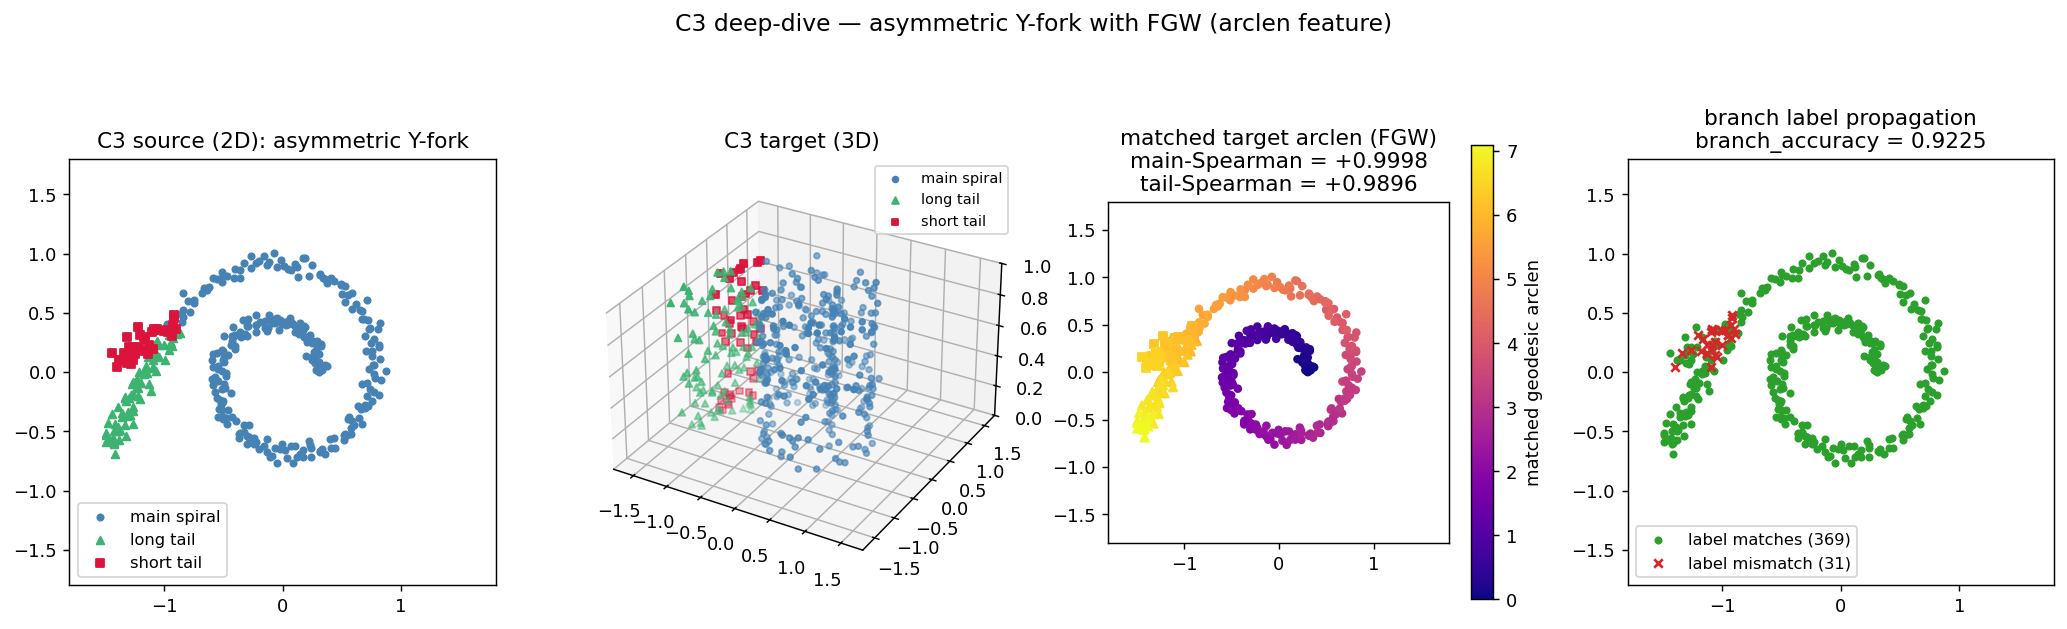
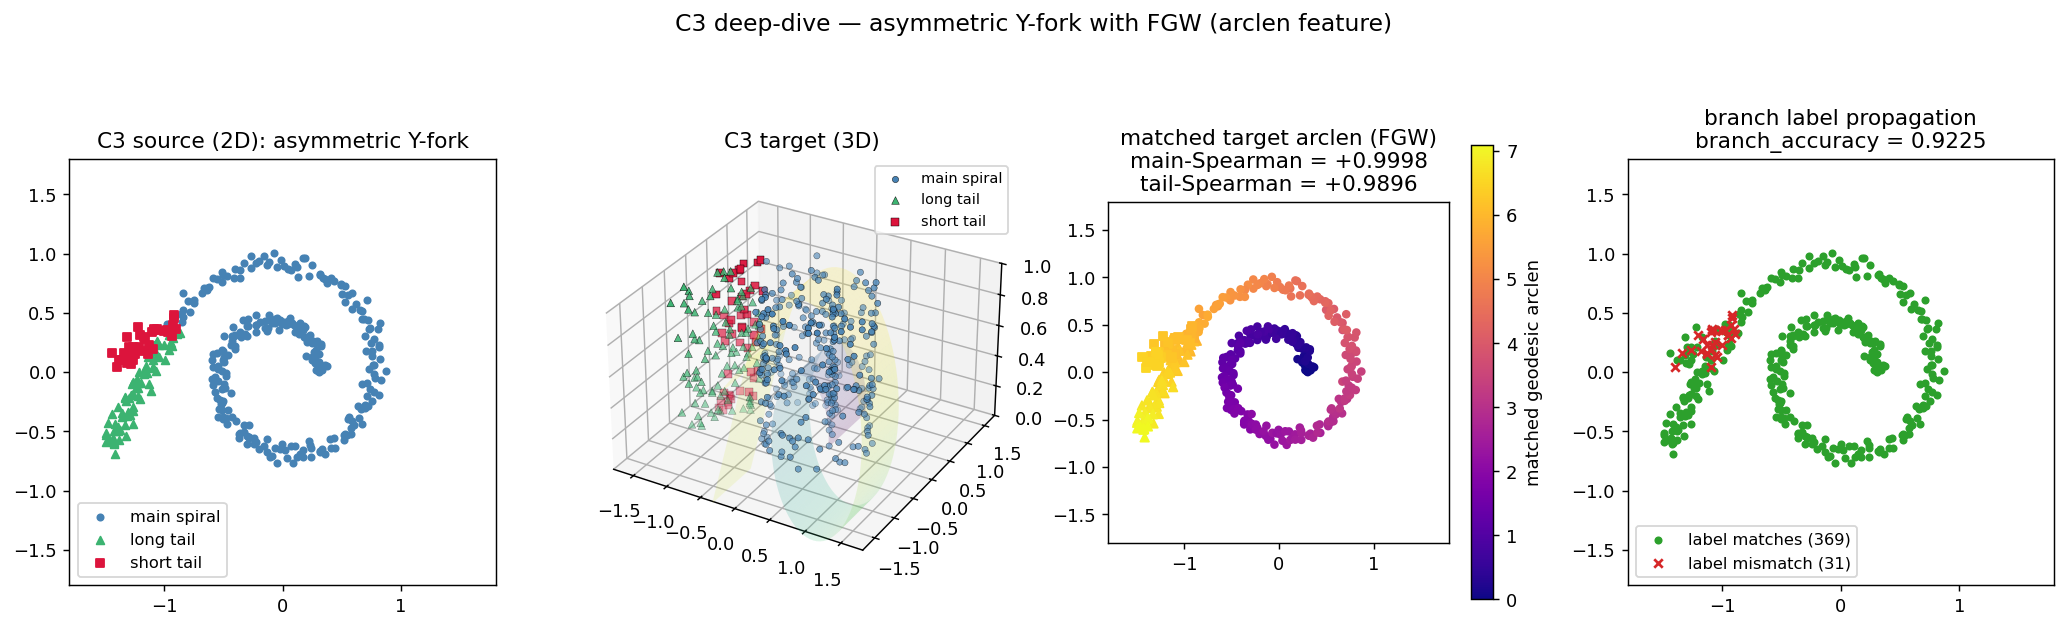
fig: bundled correspondence lines + shaded 3D surface backdrops
Two improvements:

1. Correspondence lines now come in bundles of 5 nearly-parallel lines per
   anchor region (5 anchors on each panel). For the simple spiral we pick
   5 spiral-center / arm / rim regions; for the Y-fork we use 3 backbone
   anchors plus one bundle for each tail tip. _bundle_by_anchor returns
   scalar-sorted index pairs so the 5 lines in a bundle stay parallel.

2. Added _overlay_swiss_roll_surface which draws a semi-transparent
   (alpha=0.18) clean Swiss roll parametric surface via plot_surface with
   matplotlib.colors.LightSource shading (azdeg=315, altdeg=35). For the
   Y-fork we additionally draw two _overlay_tail_strip rectangles
   extending along the two tail directions. Scatter markers gained a thin
   black edgecolor (linewidth=0.25) so the points pop out of the shaded
   backdrop instead of blending into it.

Visual result: the 3D panels now clearly read as 3D rolls, not columns of
points. The five coloured line bundles tell the reader which 2D cluster
corresponds to which 3D cluster.

Changed region(s): [[0.3096, 0.3927, 0.4335, 0.876]]

diff --git a/scripts/experiments/make_symmetry_figures.py b/scripts/experiments/make_symmetry_figures.py
@@ -69,50 +69,123 @@ def _apply_3d_view(ax) -> None:
         pass  # older matplotlib; fall back to default cube
 
 
-def _add_correspondence_lines(
+def _overlay_swiss_roll_surface(
+    ax3d,
+    r_min: float = 0.3, r_max: float = 1.0, theta_max: float = 9.0,
+    z_max: float = 1.0, alpha: float = 0.18,
+    cmap_name: str = DATA_CMAP,
+    vmax: "float | None" = None,
+) -> None:
+    """Draw a semi-transparent shaded Swiss-roll surface underneath the
+    scatter points to give the panel a strong sense of depth.
+
+    The surface is the clean parametric swiss roll (no noise) with
+    r(θ) = r_min + (r_max - r_min)·θ/theta_max, θ ∈ [0, theta_max],
+    z ∈ [0, z_max], plotted in the (x, z, y) display order used by our
+    scatter calls. Uses matplotlib.colors.LightSource shading on the
+    θ-coloured face grid.
+    """
+    from matplotlib.colors import LightSource, Normalize
+
+    theta = np.linspace(0, theta_max, 120)
+    z = np.linspace(0, z_max, 14)
+    T, Z = np.meshgrid(theta, z)
+    R = r_min + (r_max - r_min) * T / theta_max
+    Xs = R * np.cos(T)
+    Ys = R * np.sin(T)  # spiral y
+
+    cmap = plt.get_cmap(cmap_name)
+    norm = Normalize(vmin=0, vmax=(vmax if vmax is not None else theta_max))
+    face_rgb = cmap(norm(T))[..., :3]
+    ls = LightSource(azdeg=315, altdeg=35)
+    shaded = ls.shade_rgb(face_rgb, Z, blend_mode="soft", vert_exag=0.5)
+
+    ax3d.plot_surface(
+        Xs, Z, Ys,  # display order: (x_spiral, z_param, y_spiral)
+        facecolors=shaded, alpha=alpha, antialiased=True,
+        shade=False, rstride=1, cstride=1,
+        linewidth=0, edgecolor="none",
+    )
+
+
+def _overlay_tail_strip(
+    ax3d,
+    base_xy: "tuple[float, float]", direction_xy: "tuple[float, float]",
+    length: float, z_max: float = 1.0,
+    color=(0.8, 0.8, 0.2), alpha: float = 0.18,
+) -> None:
+    """Overlay a thin rectangular strip (tail extrusion in z) as a light
+    translucent panel so straight tails on the Y-fork also get a 3D feel.
+    """
+    bx, by = base_xy
+    dx, dy = direction_xy
+    s = np.linspace(0, length, 10)
+    z = np.linspace(0, z_max, 6)
+    S, Z = np.meshgrid(s, z)
+    Xs = bx + S * dx
+    Ys = by + S * dy
+    facecolor = np.broadcast_to(np.asarray(color, dtype=float), (*Xs.shape, 3))
+    ax3d.plot_surface(
+        Xs, Z, Ys, facecolors=facecolor, alpha=alpha, antialiased=True,
+        shade=False, rstride=1, cstride=1, linewidth=0, edgecolor="none",
+    )
+
+
+def _add_bundled_lines(
     fig, ax2d, ax3d,
     src_xy: np.ndarray, tgt_xyz_display: np.ndarray,
-    src_s: np.ndarray, tgt_s: np.ndarray,
-    n_lines: int = 12, cmap_name: str = DATA_CMAP,
-    alpha: float = 0.6, linewidth: float = 1.2,
+    bundles: "list[tuple[np.ndarray, np.ndarray, object]]",
+    alpha: float = 0.55, linewidth: float = 1.1,
 ) -> None:
-    """Draw `n_lines` across-panel lines connecting source points and their
-    parameter-matched target points. Coloured by the shared parameter.
+    """Draw bundles of connecting lines between matching source/target points.
 
-    tgt_xyz_display must already be in the (x, y, z) order used by the 3D
-    scatter call (i.e. for a swiss roll plotted as scatter(Y[:,0], Y[:,2],
-    Y[:,1]), pass np.stack((Y[:,0], Y[:,2], Y[:,1]), axis=1)).
+    Each `bundle` is `(src_indices, tgt_indices, colour)`. The two index
+    arrays must have the same length; lines connect them pairwise in the
+    given order (caller should usually sort both by a shared parameter so
+    lines in a bundle are nearly parallel).
+
+    tgt_xyz_display must be in the (x, y, z) order already used by the 3D
+    scatter call.
     """
     from matplotlib.patches import ConnectionPatch
     from mpl_toolkits.mplot3d import proj3d
-    import matplotlib.colors as mcolors
 
-    # Force the 3D projection matrix to be current so proj_transform is valid.
-    fig.canvas.draw()
+    fig.canvas.draw()  # finalise 3D projection matrix
 
-    s_min = float(min(src_s.min(), tgt_s.min()))
-    s_max = float(max(src_s.max(), tgt_s.max()))
-    # Anchor values evenly spanning the parameter range, avoiding the very ends
-    anchors = np.linspace(s_min, s_max, n_lines + 2)[1:-1]
-    cmap = plt.get_cmap(cmap_name)
-    norm = mcolors.Normalize(vmin=s_min, vmax=s_max)
+    for src_idx, tgt_idx, color in bundles:
+        for i, j in zip(src_idx, tgt_idx):
+            x2, y2 = float(src_xy[int(i), 0]), float(src_xy[int(i), 1])
+            xyz = tgt_xyz_display[int(j)]
+            x3p, y3p, _ = proj3d.proj_transform(
+                float(xyz[0]), float(xyz[1]), float(xyz[2]), ax3d.get_proj(),
+            )
+            con = ConnectionPatch(
+                xyA=(x2, y2), coordsA=ax2d.transData,
+                xyB=(x3p, y3p), coordsB=ax3d.transData,
+                color=color, alpha=alpha, linewidth=linewidth,
+                zorder=5,
+            )
+            con.set_clip_on(False)
+            fig.add_artist(con)
 
-    for s in anchors:
-        i = int(np.argmin(np.abs(src_s - s)))
-        j = int(np.argmin(np.abs(tgt_s - s)))
-        x2, y2 = float(src_xy[i, 0]), float(src_xy[i, 1])
-        xyz = tgt_xyz_display[j]
-        x3p, y3p, _ = proj3d.proj_transform(
-            float(xyz[0]), float(xyz[1]), float(xyz[2]), ax3d.get_proj(),
-        )
-        con = ConnectionPatch(
-            xyA=(x2, y2), coordsA=ax2d.transData,
-            xyB=(x3p, y3p), coordsB=ax3d.transData,
-            color=cmap(norm(s)), alpha=alpha, linewidth=linewidth,
-            zorder=5,
-        )
-        con.set_clip_on(False)  # allow line to cross axes boundaries
-        fig.add_artist(con)
+
+def _bundle_by_anchor(
+    src_s: np.ndarray, tgt_s: np.ndarray,
+    anchor_value: float, n_per_bundle: int,
+    src_mask: "np.ndarray | None" = None,
+    tgt_mask: "np.ndarray | None" = None,
+) -> "tuple[np.ndarray, np.ndarray]":
+    """Pick the n_per_bundle source and target points whose scalar is closest
+    to `anchor_value`. Returns (src_indices, tgt_indices) sorted by their own
+    scalar so pair-wise connections form nearly-parallel lines.
+    """
+    s_range_src = np.where(src_mask, src_s, np.inf) if src_mask is not None else src_s
+    s_range_tgt = np.where(tgt_mask, tgt_s, np.inf) if tgt_mask is not None else tgt_s
+    src_idx = np.argsort(np.abs(s_range_src - anchor_value))[:n_per_bundle]
+    tgt_idx = np.argsort(np.abs(s_range_tgt - anchor_value))[:n_per_bundle]
+    src_idx = src_idx[np.argsort(src_s[src_idx])]
+    tgt_idx = tgt_idx[np.argsort(tgt_s[tgt_idx])]
+    return src_idx, tgt_idx
 
 
 def _get_rho(x: np.ndarray, y: np.ndarray) -> float:
@@ -158,9 +231,11 @@ def make_datasets_figure() -> Path:
     # (0, 1) C1 / C2 target — 3D Swiss roll
     ax_c12_tgt = fig.add_subplot(gs[0, 1], projection="3d")
     Y1_display = np.stack((Y1[:, 0], Y1[:, 2], Y1[:, 1]), axis=1)
+    _overlay_swiss_roll_surface(ax_c12_tgt, vmax=9)
     sc = ax_c12_tgt.scatter(Y1_display[:, 0], Y1_display[:, 1],
-                              Y1_display[:, 2], c=b1, cmap=DATA_CMAP, s=12,
-                              vmin=0, vmax=9)
+                              Y1_display[:, 2], c=b1, cmap=DATA_CMAP, s=14,
+                              vmin=0, vmax=9, edgecolors="black",
+                              linewidths=0.25, depthshade=True)
     ax_c12_tgt.set_title("C1 / C2 target — simple Swiss roll (3D)",
                           fontsize=TITLE_SIZE)
     ax_c12_tgt.set_xlim(-XY_LIM, XY_LIM); ax_c12_tgt.set_ylim(-XY_LIM, XY_LIM)
@@ -197,21 +272,32 @@ def make_datasets_figure() -> Path:
     ax_c3_src.set_aspect("equal")
     ax_c3_src.legend(loc="lower left", fontsize=9)
 
-    # (1, 1) C3 target — 3D Y-fork Swiss roll
+    # (1, 1) C3 target — 3D Y-fork Swiss roll, with shaded backdrop surfaces
     ax_c3_tgt = fig.add_subplot(gs[1, 1], projection="3d")
     Y3_display = np.stack((Y3[:, 0], Y3[:, 2], Y3[:, 1]), axis=1)
+    _overlay_swiss_roll_surface(ax_c3_tgt, vmax=arclen_max)
+    # Fork-base position + long/short tail directions, mirroring run_c3
+    base_x = float(np.cos(9.0)); base_y = float(np.sin(9.0))
+    (d1x, d1y), (d2x, d2y) = c3._asymmetric_tail_directions(9.0, np.pi / 6)
+    _overlay_tail_strip(ax_c3_tgt, (base_x, base_y), (d1x, d1y),
+                         length=1.2, color=(0.85, 0.9, 0.35))
+    _overlay_tail_strip(ax_c3_tgt, (base_x, base_y), (d2x, d2y),
+                         length=0.6, color=(0.95, 0.95, 0.25))
     sc = ax_c3_tgt.scatter(Y3_display[tgt_main, 0], Y3_display[tgt_main, 1],
                              Y3_display[tgt_main, 2], c=b3[tgt_main],
-                             cmap=DATA_CMAP, s=12, vmin=0, vmax=arclen_max,
-                             marker="o", label="main spiral")
+                             cmap=DATA_CMAP, s=14, vmin=0, vmax=arclen_max,
+                             marker="o", label="main spiral",
+                             edgecolors="black", linewidths=0.25)
     ax_c3_tgt.scatter(Y3_display[tgt_long, 0], Y3_display[tgt_long, 1],
                        Y3_display[tgt_long, 2], c=b3[tgt_long],
-                       cmap=DATA_CMAP, s=22, vmin=0, vmax=arclen_max,
-                       marker="^", label="long tail")
+                       cmap=DATA_CMAP, s=26, vmin=0, vmax=arclen_max,
+                       marker="^", label="long tail",
+                       edgecolors="black", linewidths=0.25)
     ax_c3_tgt.scatter(Y3_display[tgt_short, 0], Y3_display[tgt_short, 1],
                        Y3_display[tgt_short, 2], c=b3[tgt_short],
-                       cmap=DATA_CMAP, s=22, vmin=0, vmax=arclen_max,
-                       marker="s", label="short tail")
+                       cmap=DATA_CMAP, s=26, vmin=0, vmax=arclen_max,
+                       marker="s", label="short tail",
+                       edgecolors="black", linewidths=0.25)
     ax_c3_tgt.set_title("C3 target — Swiss roll + Y-fork (3D)",
                          fontsize=TITLE_SIZE)
     ax_c3_tgt.set_xlim(-XY_LIM, XY_LIM); ax_c3_tgt.set_ylim(-XY_LIM, XY_LIM)
@@ -221,11 +307,52 @@ def make_datasets_figure() -> Path:
     plt.colorbar(sc, ax=ax_c3_tgt, shrink=0.7, label="geodesic arclen",
                   pad=0.08)
 
-    # Ground-truth correspondence lines (same parameter → matching target).
-    _add_correspondence_lines(fig, ax_c12_src, ax_c12_tgt,
-                                X1, Y1_display, a1, b1, n_lines=12)
-    _add_correspondence_lines(fig, ax_c3_src, ax_c3_tgt,
-                                X3, Y3_display, a3, b3, n_lines=12)
+    # Bundled ground-truth correspondence lines: 5 anchor regions per track,
+    # 5 nearly-parallel lines per bundle. Each bundle's colour comes from the
+    # dataset cmap evaluated at the anchor's scalar value, so a reader can
+    # read "this cluster at θ=5 corresponds to that cluster at θ=5".
+    import matplotlib.colors as _mc
+    data_cmap = plt.get_cmap(DATA_CMAP)
+    n_pb = 5  # points per bundle
+
+    # --- C1 / C2: 5 anchors across θ ∈ [0, 9]
+    bundles_c12 = []
+    c12_norm = _mc.Normalize(vmin=0, vmax=9)
+    for anchor in (0.6, 2.4, 4.5, 6.5, 8.3):
+        s_idx, t_idx = _bundle_by_anchor(a1, b1, anchor, n_pb)
+        bundles_c12.append((s_idx, t_idx, data_cmap(c12_norm(anchor))))
+    _add_bundled_lines(fig, ax_c12_src, ax_c12_tgt, X1, Y1_display, bundles_c12)
+
+    # --- C3: 3 anchors along backbone (main spiral region) + long-tail tip +
+    # short-tail tip. Mask by label + arclen so we pick points from the right
+    # region when multiple share arclen (e.g. fork base).
+    bundles_c3 = []
+    c3_norm = _mc.Normalize(vmin=0, vmax=arclen_max)
+    # Backbone anchors (main spiral only; exclude fork-base overlap)
+    src_backbone = (L3 == 0) & (a3 <= fork_s - 0.3)
+    tgt_backbone = (L3t == 0) & (b3 <= fork_s - 0.3)
+    for anchor in (0.5, 2.3, 4.3):
+        s_idx, t_idx = _bundle_by_anchor(a3, b3, anchor, n_pb,
+                                           src_backbone, tgt_backbone)
+        bundles_c3.append((s_idx, t_idx, data_cmap(c3_norm(anchor))))
+    # Long-tail tip (label 0, largest arclen)
+    src_long = (L3 == 0) & (a3 > fork_s + 0.3)
+    tgt_long = (L3t == 0) & (b3 > fork_s + 0.3)
+    s_idx = np.where(src_long)[0][np.argsort(a3[src_long])[-n_pb:]]
+    t_idx = np.where(tgt_long)[0][np.argsort(b3[tgt_long])[-n_pb:]]
+    s_idx = s_idx[np.argsort(a3[s_idx])]
+    t_idx = t_idx[np.argsort(b3[t_idx])]
+    bundles_c3.append((s_idx, t_idx, data_cmap(c3_norm(float(a3[s_idx].mean())))))
+    # Short-tail tip (label 1, largest arclen)
+    src_short = (L3 == 1)
+    tgt_short = (L3t == 1)
+    s_idx = np.where(src_short)[0][np.argsort(a3[src_short])[-n_pb:]]
+    t_idx = np.where(tgt_short)[0][np.argsort(b3[tgt_short])[-n_pb:]]
+    s_idx = s_idx[np.argsort(a3[s_idx])]
+    t_idx = t_idx[np.argsort(b3[t_idx])]
+    bundles_c3.append((s_idx, t_idx, data_cmap(c3_norm(float(a3[s_idx].mean())))))
+
+    _add_bundled_lines(fig, ax_c3_src, ax_c3_tgt, X3, Y3_display, bundles_c3)
 
     fig.suptitle("Datasets — each point coloured by its natural 1D parameter "
                   "(θ for the simple spiral, geodesic arclen for the Y-fork)",
@@ -433,12 +560,23 @@ def make_c3_zoom_figure() -> Path:
     ax.legend(loc="lower left", fontsize=9)
 
     ax = fig.add_subplot(1, 4, 2, projection="3d")
+    arclen_max_local = float(b.max())
+    _overlay_swiss_roll_surface(ax, vmax=arclen_max_local, alpha=0.18)
+    base_x = float(np.cos(9.0)); base_y = float(np.sin(9.0))
+    (d1x, d1y), (d2x, d2y) = c3._asymmetric_tail_directions(9.0, np.pi / 6)
+    _overlay_tail_strip(ax, (base_x, base_y), (d1x, d1y),
+                          length=1.2, color=(0.85, 0.9, 0.35))
+    _overlay_tail_strip(ax, (base_x, base_y), (d2x, d2y),
+                          length=0.6, color=(0.95, 0.95, 0.25))
     ax.scatter(Y[main_arc_t, 0], Y[main_arc_t, 2], Y[main_arc_t, 1],
-               c="steelblue", s=10, label="main spiral")
+               c="steelblue", s=12, label="main spiral",
+               edgecolors="black", linewidths=0.25)
     ax.scatter(Y[long_t_tgt, 0], Y[long_t_tgt, 2], Y[long_t_tgt, 1],
-               c="mediumseagreen", s=14, marker="^", label="long tail")
+               c="mediumseagreen", s=18, marker="^", label="long tail",
+               edgecolors="black", linewidths=0.25)
     ax.scatter(Y[short_t_tgt, 0], Y[short_t_tgt, 2], Y[short_t_tgt, 1],
-               c="crimson", s=14, marker="s", label="short tail")
+               c="crimson", s=18, marker="s", label="short tail",
+               edgecolors="black", linewidths=0.25)
     ax.set_xlim(-XY_LIM, XY_LIM); ax.set_ylim(-XY_LIM, XY_LIM)
     ax.set_zlim(0, 1.0)
     ax.set_title("C3 target (3D)")